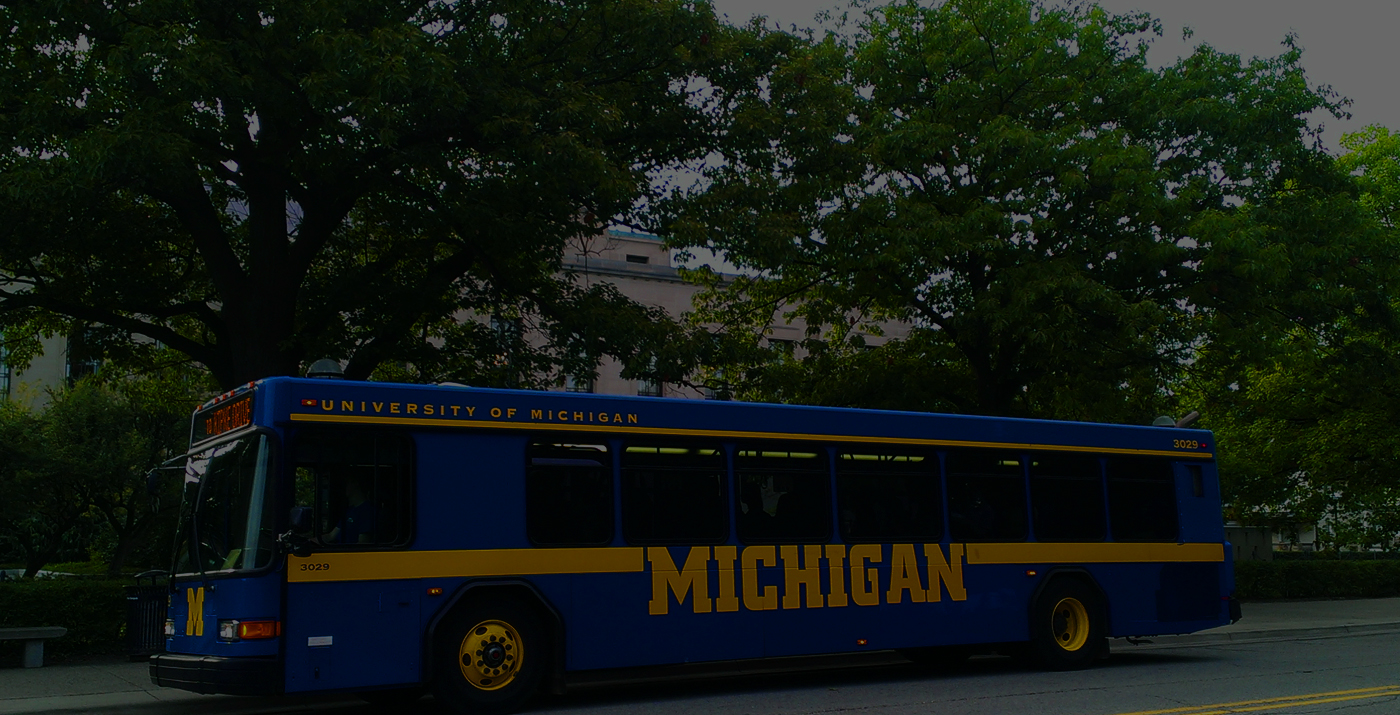
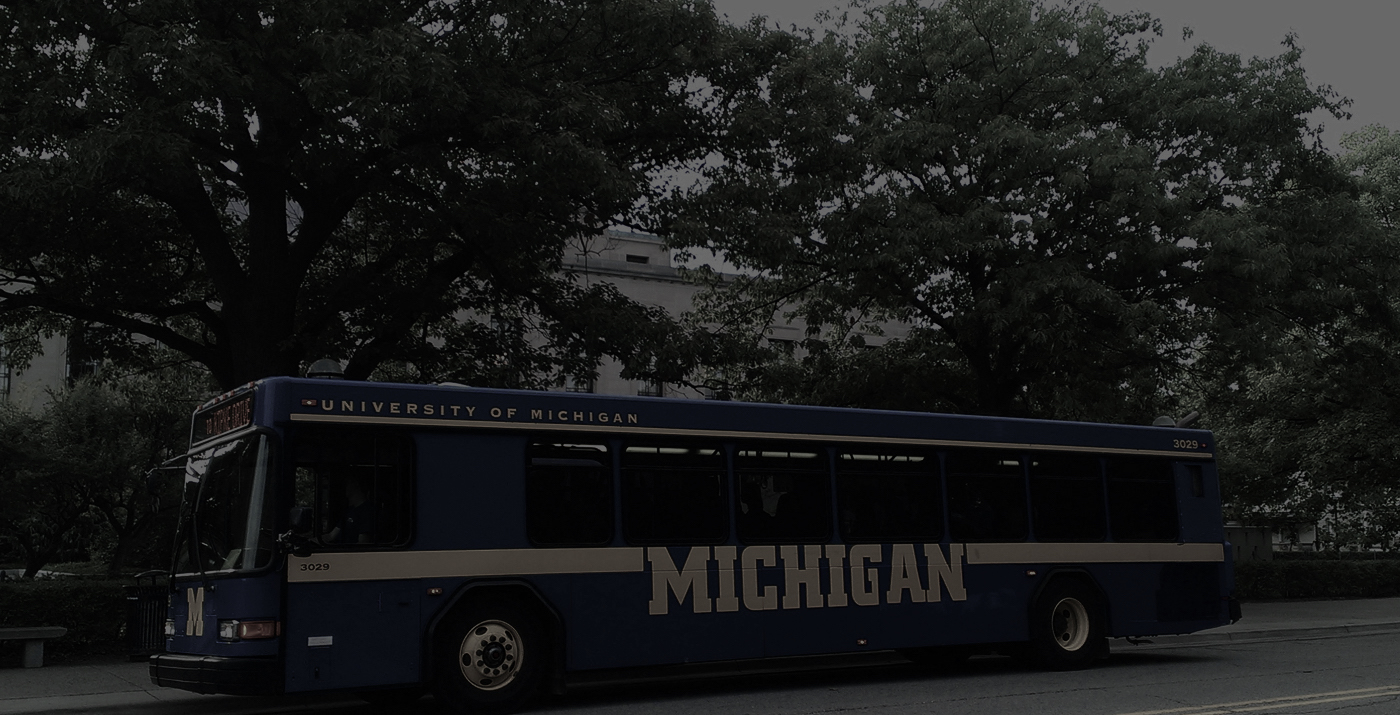
change design of getum

diff --git a/assets/css/main.css b/assets/css/main.css
@@ -2232,7 +2232,7 @@
 		background-repeat: repeat, no-repeat;
 	}
 	#intropro {
-		background: url("images/overlay.png"), url("../../images/getum/getumbg_final.jpg");
+		background: url("images/overlay.png"), url("../../images/getum/getumintro.jpg");
 		background-size: 256px 256px, cover;
 		background-attachment: fixed, fixed;
 		background-position: top left, bottom center;
@@ -2310,9 +2310,9 @@
 
 /*Five*/
 	#five {
-		background-color: #212326;
+		/*background-color: #212326;*/
 		color: #fff;
-		/*background: url("images/overlay.png"), url("../../images/one.jpg");*/
+		background: url("images/overlay.png"), url("../../images/getum/getumbg.jpg");
 		background-size: 256px 256px, cover;
 		background-attachment: fixed, fixed;
 		background-position: top left, center center;
